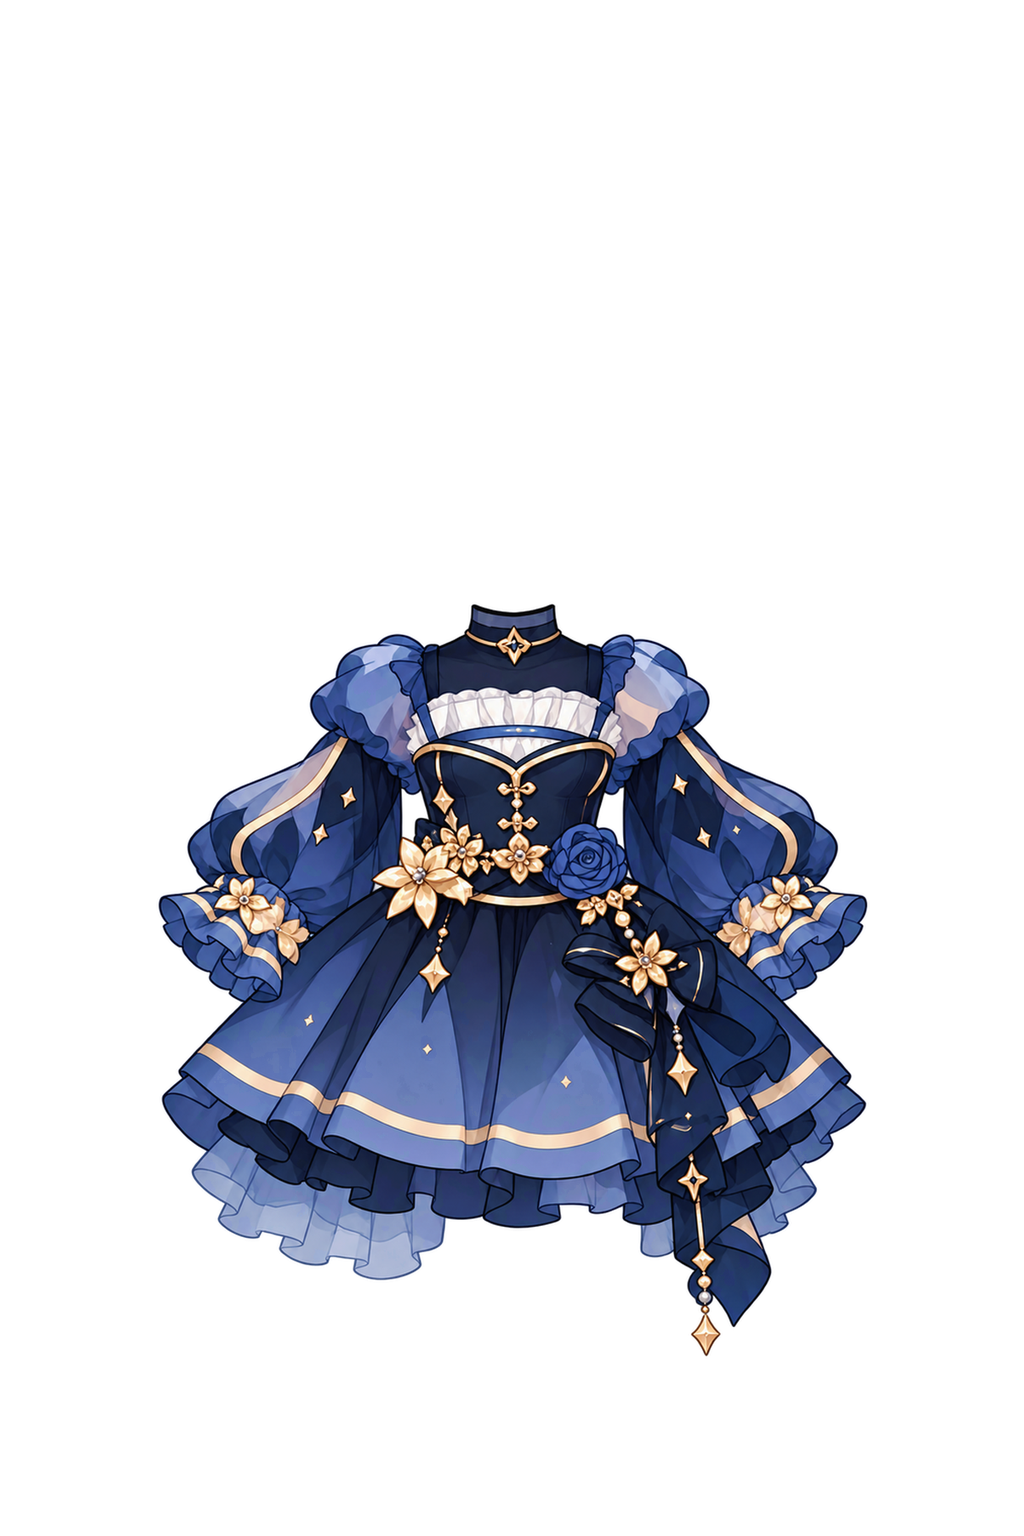
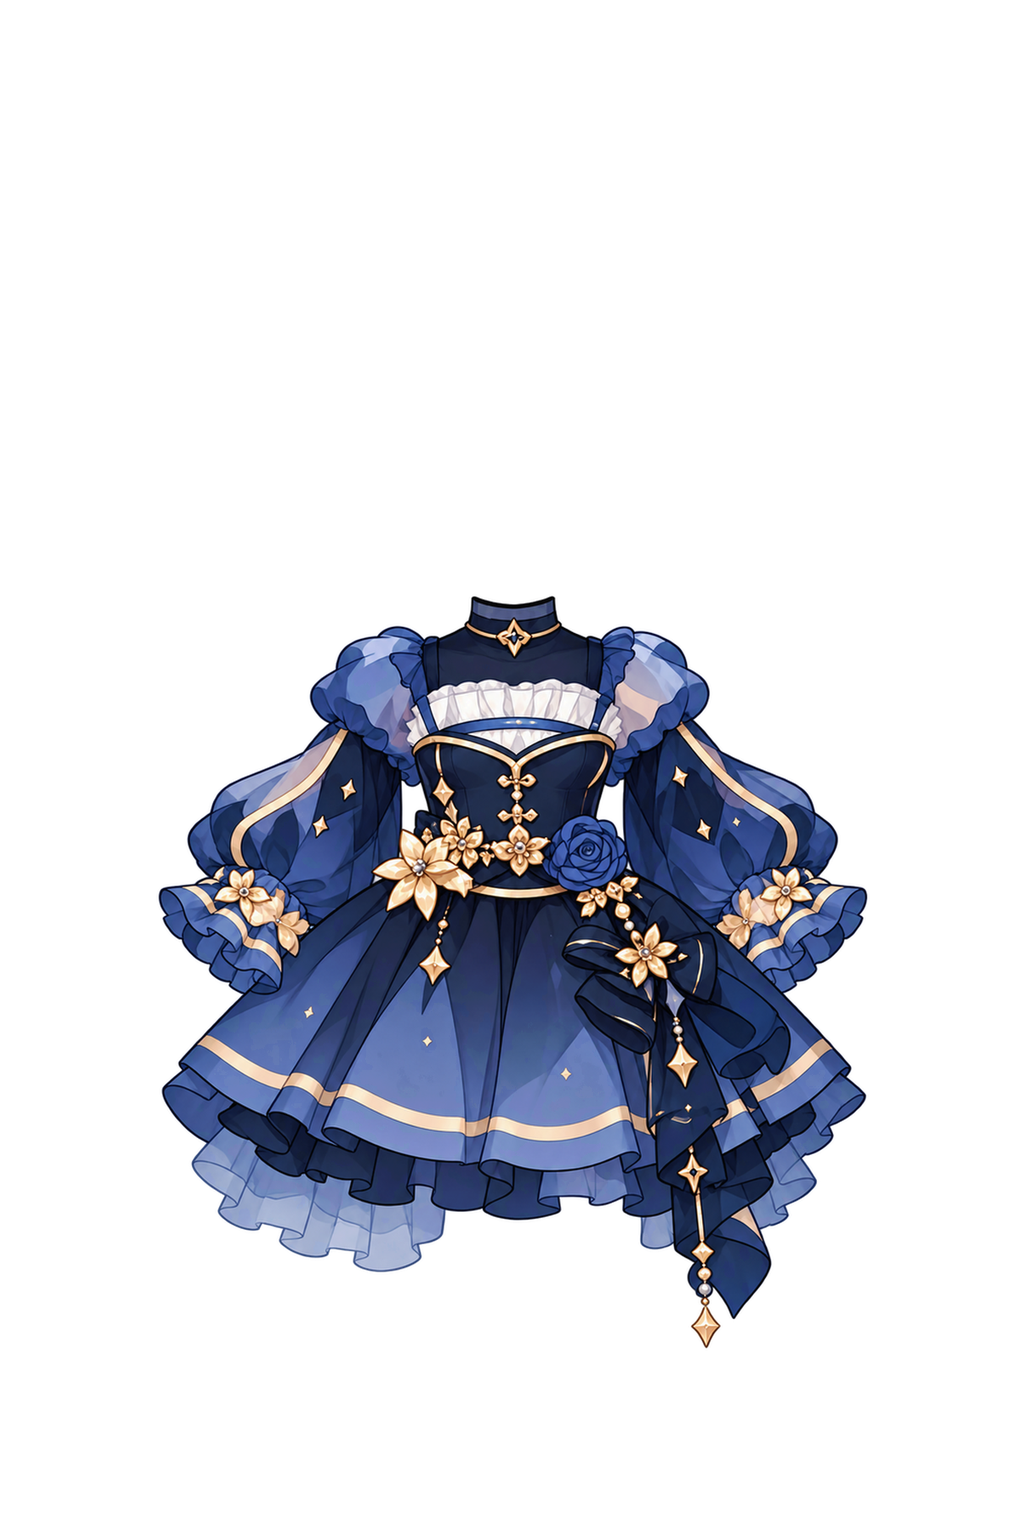
테마옷 3벌 추가(트럼프 블루, 눈꽃 모피, 별빛 십자) + 미드나잇 원피스 위로 1칸
Claude-Session: https://claude.ai/code/session_01QsJz8svXLJhiXtuEPA1E7w

Changed region(s): [[0.1562, 0.375, 0.8438, 0.875]]

diff --git a/tools-py/fit_costumes.py b/tools-py/fit_costumes.py
@@ -37,6 +37,7 @@ MANUAL: dict[str, dict] = {
     'dress_lolita_black': dict(scale=1.1, dy=4 * 8, pivot=(512, 920)),  # +1, 아래로 4칸
     'dress_lolita_purple': dict(scale=1.1, dy=4 * 8, pivot=(512, 944)),  # +1, 아래로 4칸
     'dress_maid_blue': dict(scale=1.1 ** 2, dy=10 * 8, pivot=(512, 913)),  # +2, 아래로 10칸
+    'dress_midnight_navy': dict(scale=1.0, dy=-1 * 8, pivot=(512, 980)),  # 위로 1칸
     'dress_starry_navy': dict(scale=1.1, dy=6 * 8, pivot=(512, 1070)),  # +1, 아래로 6칸 (아래 자락은 캔버스 밖으로 잘림)
 }
 OVERRIDES: dict[str, tuple[int, int]] = {
